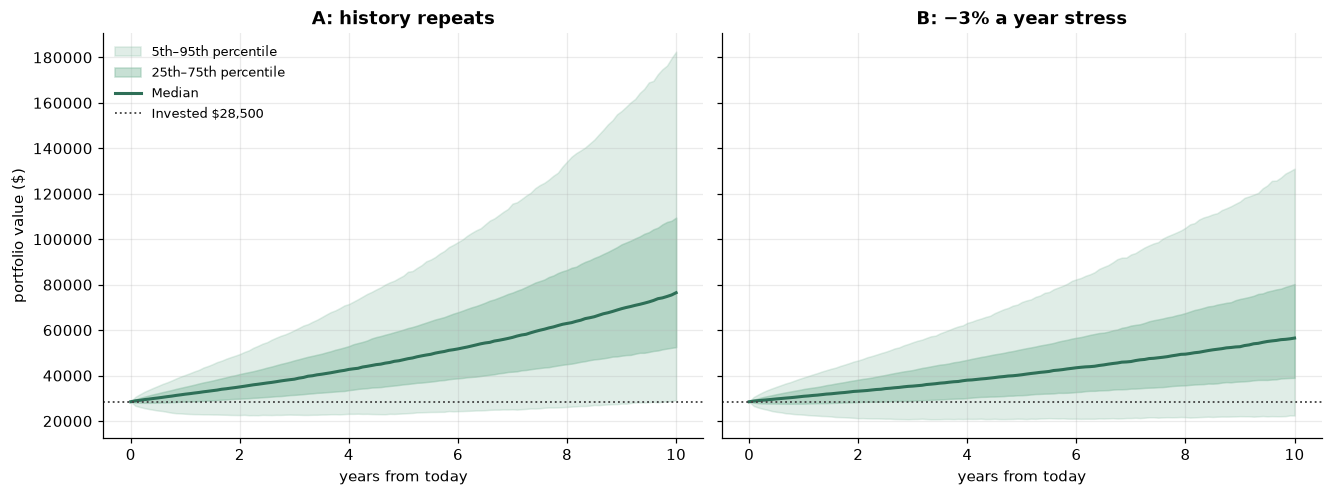
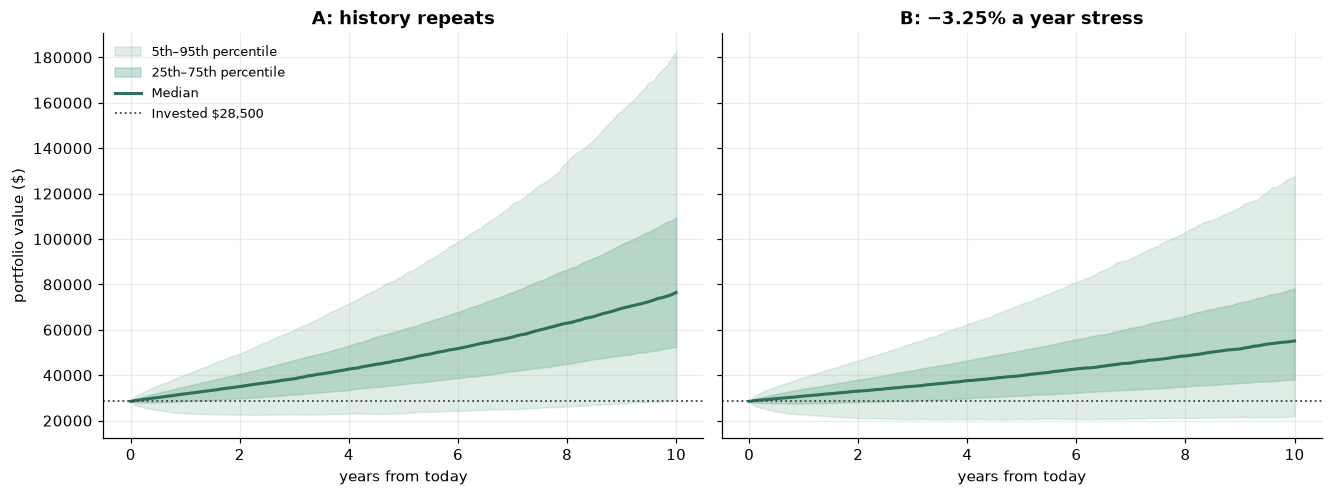
Update Monte Carlo: EQAL, VXUS

diff --git a/report/MONTE_CARLO.md b/report/MONTE_CARLO.md
@@ -1,6 +1,6 @@
 # Monte Carlo: EQAL + VXUS
 
-Updated 2026-11-01 00:05 UTC · 10,000 simulated futures of 10 years (2,520 trading days) · seed 42 · blocks of 20 real days resampled from 2016-11-02 to 2026-10-30
+Updated 2026-11-01 00:17 UTC · 10,000 simulated futures of 10 years (2,520 trading days) · seed 42 · blocks of 20 real days resampled from 2016-11-02 to 2026-10-30
 
 ## Setup
 
@@ -10,25 +10,25 @@ Updated 2026-11-01 00:05 UTC · 10,000 simulated futures of 10 years (2,520 trad
 | VXUS | $14,500 | 50.9% |
 | **Total** | **$28,500** | 100% |
 
-Buy-and-hold: no rebalancing, no contributions or withdrawals, no taxes or costs. Prices are dividend-adjusted (total return). **Scenario A: history repeats.** **Scenario B: 3% a year is subtracted from every fund's return**, a stress case (my assumption, not a forecast).
+Buy-and-hold: no rebalancing, no contributions or withdrawals, no taxes or costs. Prices are dividend-adjusted (total return). **Scenario A: history repeats.** **Scenario B: 3.25% a year is subtracted from every fund's return**, a stress case (my assumption, not a forecast).
 
 For reference, the actual last 10.0 years of this exact mix: **10.0% a year**, worst fall **-38%**, $28,500 became $73,573.
 
 ## 1. Where $28,500 could end up
 
-| After 10 years | A: history repeats | B: −3%/yr stress |
+| After 10 years | A: history repeats | B: −3.25%/yr stress |
 |---|---|---|
-| 5th percentile value | $29,134 | $22,426 |
-| 25th percentile value | $52,526 | $39,010 |
-| 50th percentile value (median) | $76,465 | $56,507 |
-| 75th percentile value | $109,504 | $80,237 |
-| 95th percentile value | $182,496 | $131,033 |
-| Median growth per year | 10.4% | 7.1% |
-| Chance of ending below $28,500 (the amount invested) | 4.6% | 10.9% |
+| 5th percentile value | $29,134 | $21,872 |
+| 25th percentile value | $52,526 | $38,047 |
+| 50th percentile value (median) | $76,464 | $55,113 |
+| 75th percentile value | $109,504 | $78,257 |
+| 95th percentile value | $182,497 | $127,800 |
+| Median growth per year | 10.4% | 6.8% |
+| Chance of ending below $28,500 (the amount invested) | 4.6% | 11.7% |
 | Median worst fall along the way | -34% | -36% |
 | Chance of a fall worse than −20% | 91% | 94% |
-| Chance of a fall worse than −30% | 66% | 72% |
-| Chance of a fall worse than −40% | 30% | 37% |
+| Chance of a fall worse than −30% | 66% | 73% |
+| Chance of a fall worse than −40% | 30% | 38% |
 
 *No liability was entered. Add its amount and timing (for example $20,000 in 4 years) and rerun to get the chance of falling short.*
 
